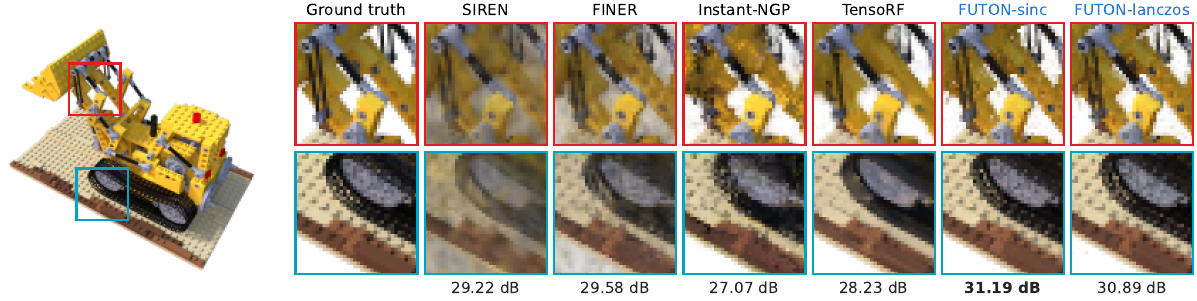
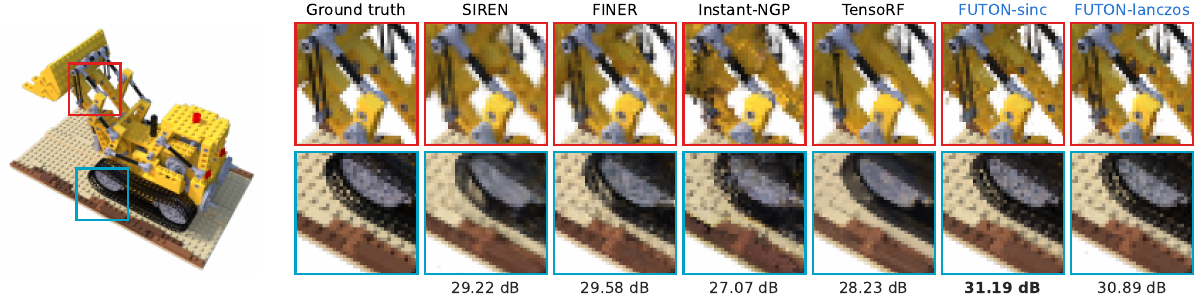
Rebuild the occupancy grid when rendering from a checkpoint
A checkpoint holds only the radiance field, and a fresh renderer starts
fully occupied, so every render the report made from a checkpoint, the
magnification panels and the orbits, sampled the faint density a sine
network leaves in empty space along every ray: SIREN and FINER came out
foggy at 10 and 15 dB while their scored views stand at 29. The renderer
is now rebuilt with the field's grid, as training's warmup does, and every
model reproduces its logged PSNR within 0.2 dB. The speed profiler drops
its own copy of that loop, and --overwrite re-renders orbits as well as
panels. The README and docs figures of the lego scene are regenerated.

diff --git a/scripts/report_paper.py b/scripts/report_paper.py
@@ -740,7 +740,14 @@ def render_occupancy(signal: str, runs: list[dict], directory: Path, device) -> 
 
 
 def field_and_renderer(run: dict, config: dict, dataset, device):
-    """Rebuild a run's radiance field and its renderer."""
+    """Rebuild a run's radiance field and its renderer, occupancy grid included.
+
+    Only the field is checkpointed, and a fresh renderer starts fully
+    occupied, so the grid is rebuilt from the field as training's warmup did.
+    Without it, the faint density a model leaves in empty space, which the
+    grid pruned when the run was scored, is sampled everywhere and rendered
+    as fog: a sine network then looks far worse than its PSNR says.
+    """
     field = nf.nerf.RadianceField(
         density_net=build(run["setup"]), aabb=dataset.aabb, **config["field"]
     )
@@ -752,7 +759,11 @@ def field_and_renderer(run: dict, config: dict, dataset, device):
         near=dataset.near,
         far=dataset.far,
     )
-    return field.to(device), renderer.to(device)
+    field, renderer = field.to(device), renderer.to(device)
+    with torch.no_grad():
+        for step in range(renderer.warmup_steps + renderer.update_interval):
+            renderer.update_occupancy(field, step)
+    return field, renderer
 
 
 def render_nerf(signal: str, runs: list[dict], directory: Path, device) -> None:
@@ -780,7 +791,12 @@ def render_nerf(signal: str, runs: list[dict], directory: Path, device) -> None:
 
 
 def render_orbit(
-    signal: str, runs: list[dict], directory: Path, device, frames: int
+    signal: str,
+    runs: list[dict],
+    directory: Path,
+    device,
+    frames: int,
+    overwrite: bool = False,
 ) -> None:
     """An orbit of each model as a GIF, at the elevation the dataset uses.
 
@@ -799,7 +815,7 @@ def render_orbit(
     ]
     for run in runs:
         path = directory / f"{run['model']}.gif"
-        if path.exists():
+        if path.exists() and not overwrite:
             continue
         print(f"  orbiting {run['model']} on {signal}", flush=True)
         field, renderer = field_and_renderer(run, config, dataset, device)
@@ -1312,7 +1328,9 @@ def main() -> None:
                     for run in runs
                     if run["data"] == signal and run["model"] in FEATURED
                 ]
-                render_orbit(signal, chosen, directory, args.device, args.orbit)
+                render_orbit(
+                    signal, chosen, directory, args.device, args.orbit, args.overwrite
+                )
             figure = qualitative(task, signal, final, directory)
             # PDF only: a PGF of raster panels writes each one out beside it.
             figure.savefig(

diff --git a/scripts/profile_speed.py b/scripts/profile_speed.py
@@ -70,19 +70,16 @@ def occupancy_inference(run: dict, path: Path, device) -> tuple[Callable, int]:
 
 
 def nerf_inference(run: dict, path: Path, device) -> tuple[Callable, int]:
-    """Render one test view, with the occupancy grid rebuilt from the field.
+    """Render one test view, as the benchmark scores it.
 
-    Only the field is checkpointed, and a fresh renderer starts fully
-    occupied, so the grid is rebuilt as training did before timing.
+    ``field_and_renderer`` rebuilds the occupancy grid from the checkpointed
+    field, so the timing covers rendering alone.
     """
     config = report.model_config(run)
     dataset = nf.nerf.BlenderDataset(
         path, "test", downsample=config["data"]["downsample"]
     )
     field, renderer = field_and_renderer(run, config, dataset, device)
-    with torch.no_grad():
-        for step in range(renderer.warmup_steps + renderer.update_interval):
-            renderer.update_occupancy(field, step)
     batch = dataset[0]
     background = dataset.background.to(device)
 
